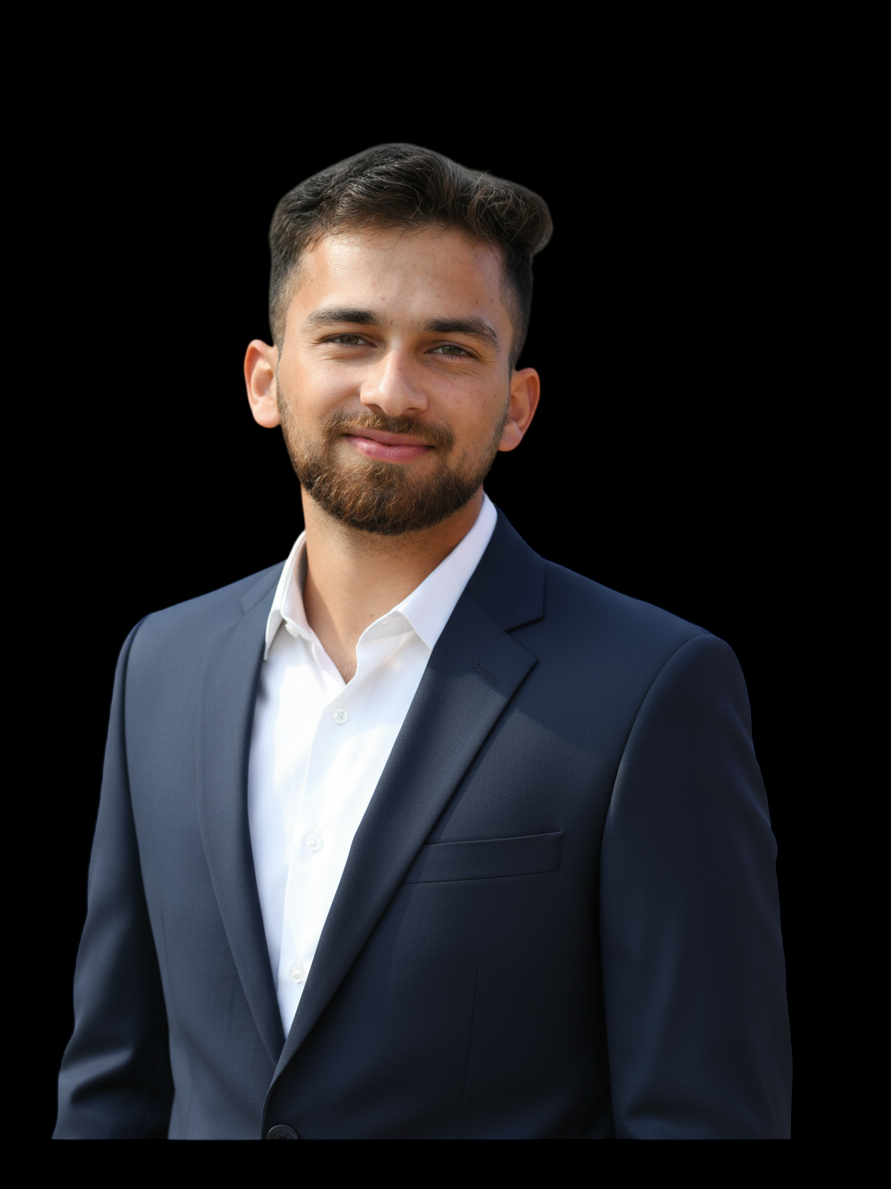
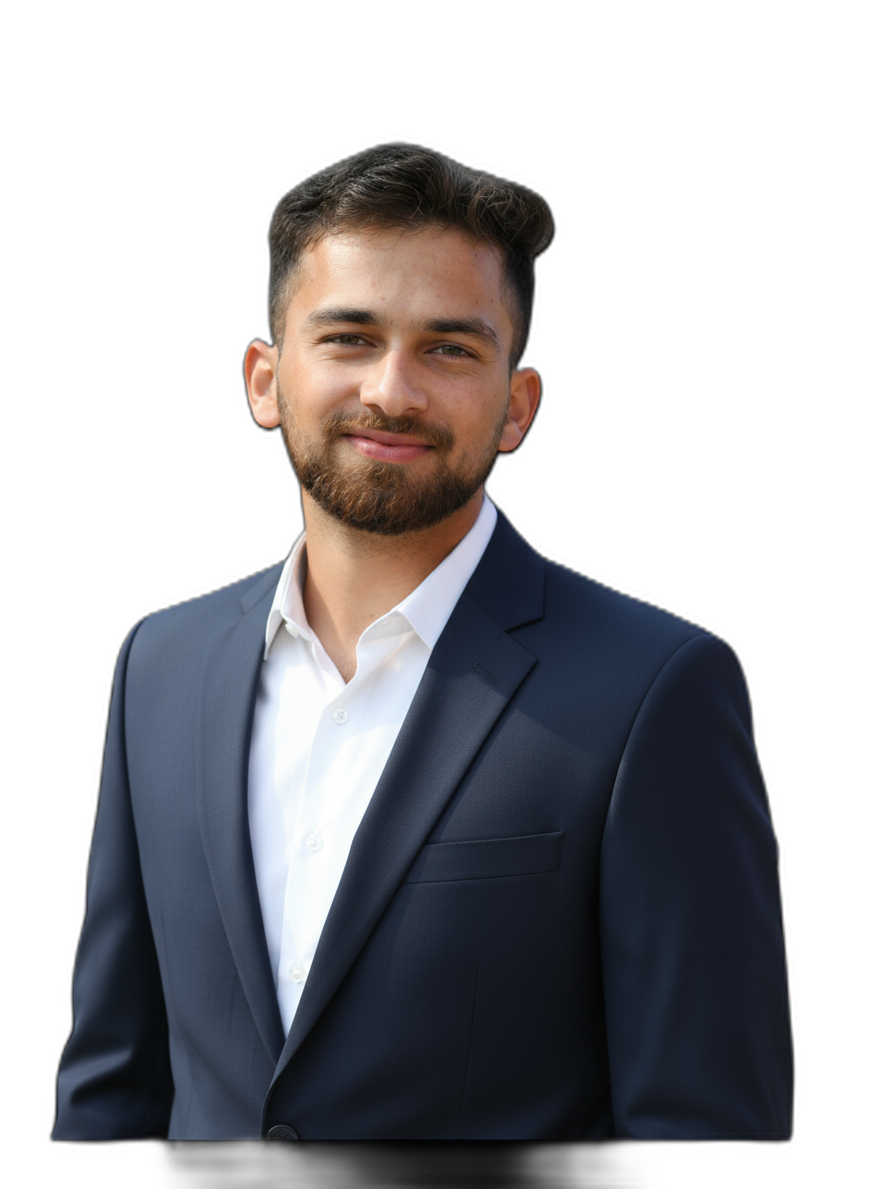
Use transparent cutout photo, remove frame (floats on background)

diff --git a/index.html b/index.html
@@ -79,13 +79,13 @@ nav{display:flex;align-items:center;justify-content:space-between;height:64px}
 .hero .role{font-size:clamp(1.05rem,2.4vw,1.35rem);color:var(--muted);font-weight:500;margin-bottom:22px}
 .hero p.lead{max-width:640px;color:var(--muted);font-size:1.05rem;margin-bottom:34px}
 .hero-actions{display:flex;gap:14px;flex-wrap:wrap}
-.hero-inner{display:grid;grid-template-columns:1.25fr .85fr;gap:52px;align-items:center}
-.hero-photo{position:relative;justify-self:center;width:100%;max-width:330px}
-.hero-photo .frame{position:relative;border-radius:22px;overflow:hidden;aspect-ratio:3/4;
-  background:linear-gradient(160deg,#1b2445,#0b1120);border:1px solid var(--border-strong);box-shadow:var(--shadow)}
-.hero-photo .frame img{width:100%;height:100%;object-fit:cover;object-position:top center;display:block}
-.hero-photo::after{content:"";position:absolute;inset:-18px;z-index:-1;border-radius:32px;
-  background:radial-gradient(circle at 50% 35%,var(--accent-soft),transparent 70%)}
+.hero-inner{display:grid;grid-template-columns:1.15fr .85fr;gap:40px;align-items:center}
+.hero-photo{position:relative;justify-self:center;width:100%;max-width:390px}
+.hero-photo .frame{position:relative}
+.hero-photo .frame img{width:100%;height:auto;display:block;position:relative;z-index:1}
+.hero-photo::after{content:"";position:absolute;left:50%;bottom:5%;transform:translateX(-50%);
+  width:86%;height:80%;z-index:0;border-radius:50%;
+  background:radial-gradient(circle,var(--accent-soft),transparent 66%);filter:blur(26px)}
 
 /* STATS */
 .stats{display:grid;grid-template-columns:repeat(4,1fr);gap:18px;margin-top:64px}
